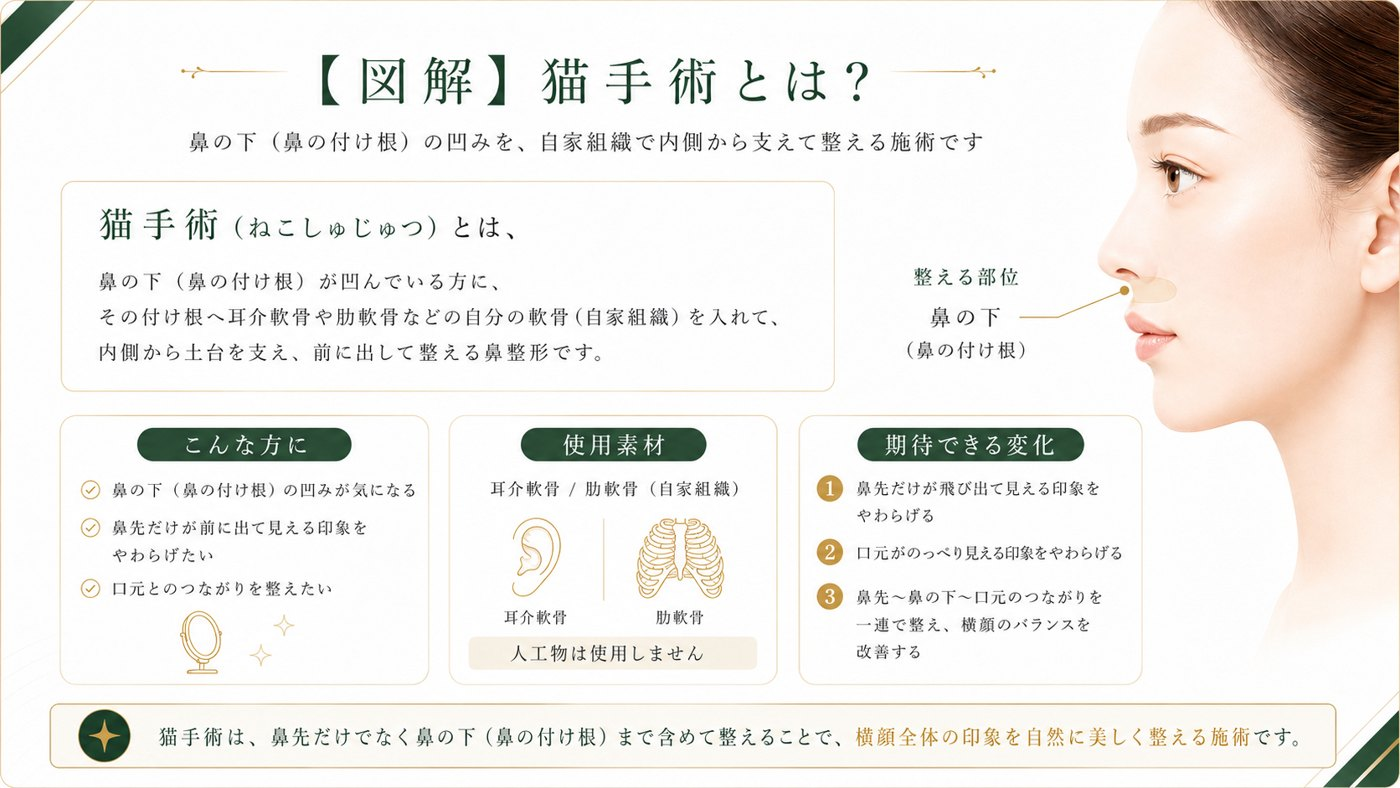
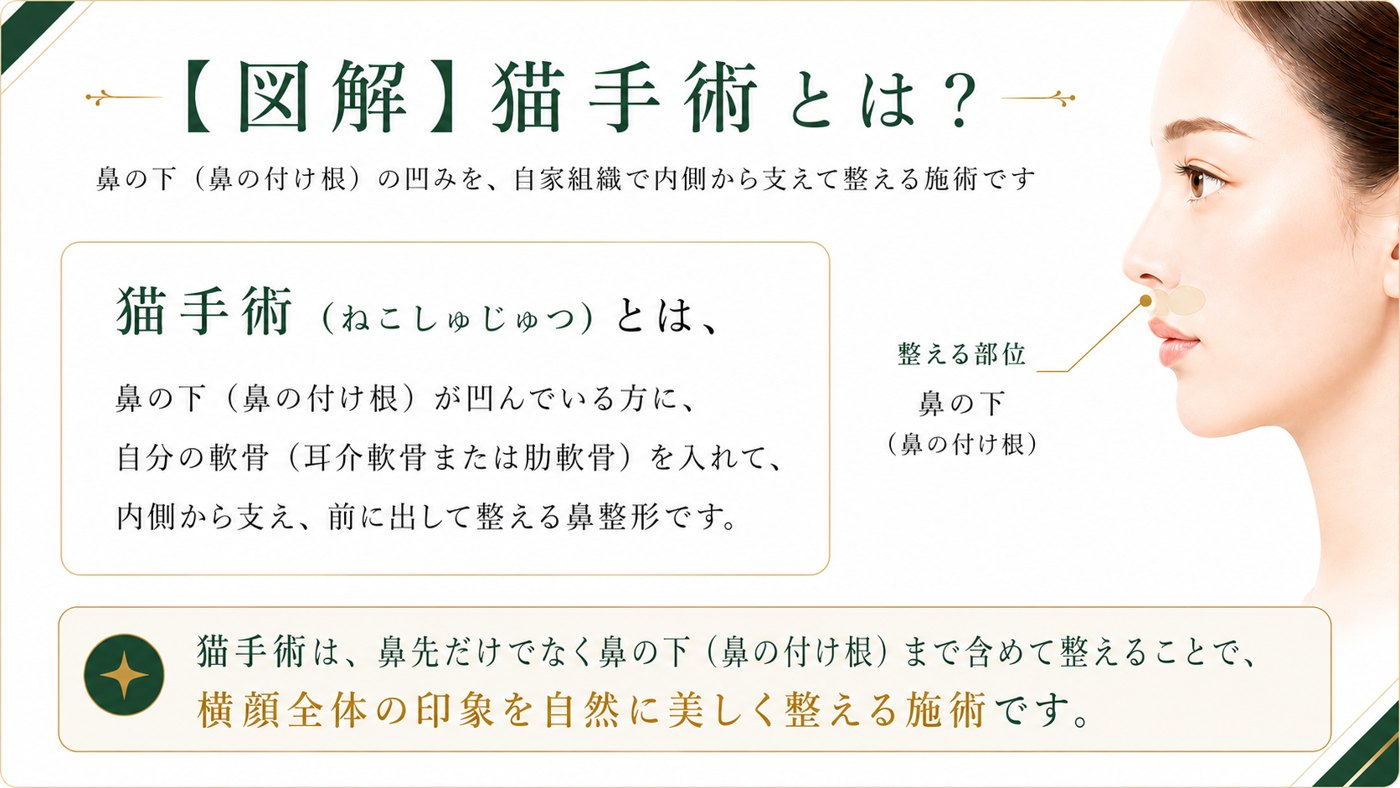
Replace 猫手術とは？ diagram with simplified version
- Swap illust-neko.jpg for the new simplified diagram (definition +
  整える部位 + summary; same 1400×788). Update alt text to match.

Claude-Session: https://claude.ai/code/session_01PwBk1FNtCTRETBY8Zttc8h

diff --git a/seo-column/columns/neko-shujutsu-fukuoka.html b/seo-column/columns/neko-shujutsu-fukuoka.html
@@ -128,7 +128,7 @@
         <p>鼻すじを高くする隆鼻術や、小鼻の付け根を整える貴族手術とは、整える場所が異なります。当院の猫手術は<strong>自分の軟骨（耳介軟骨または肋軟骨）だけ</strong>で行い、<strong>プロテーゼなどの人工物は入れません</strong>。</p>
       </div>
       <figure class="figure">
-        <img src="images/illust-neko.jpg" alt="【図解】猫手術とは？ 鼻の下（鼻の付け根）の凹みを、耳介軟骨や肋軟骨などの自家組織で内側から支えて前に出す施術。こんな方に／使用素材／期待できる変化。" width="1400" height="788" loading="lazy" onerror="this.style.display='none';this.nextElementSibling.style.display='grid'">
+        <img src="images/illust-neko.jpg" alt="【図解】猫手術とは？ 鼻の下（鼻の付け根）の凹みを、耳介軟骨や肋軟骨などの自家組織で内側から支えて前に出す施術。整える部位は鼻の下（鼻の付け根）。" width="1400" height="788" loading="lazy" onerror="this.style.display='none';this.nextElementSibling.style.display='grid'">
         <div class="illust-fallback">【図解】猫手術とは？（images/illust-neko.jpg）</div>
       </figure>
       <div class="callout"><b>「口ゴボ」との違いに注意：</b> 歯並びやあご（上下顎）の骨格そのものが大きく前に出ているタイプの口ゴボは、猫手術だけで解決できるものではなく、歯科矯正やあごの手術が適応となる場合があります。猫手術で整えられる範囲かどうかは診察で判断します。</div>
